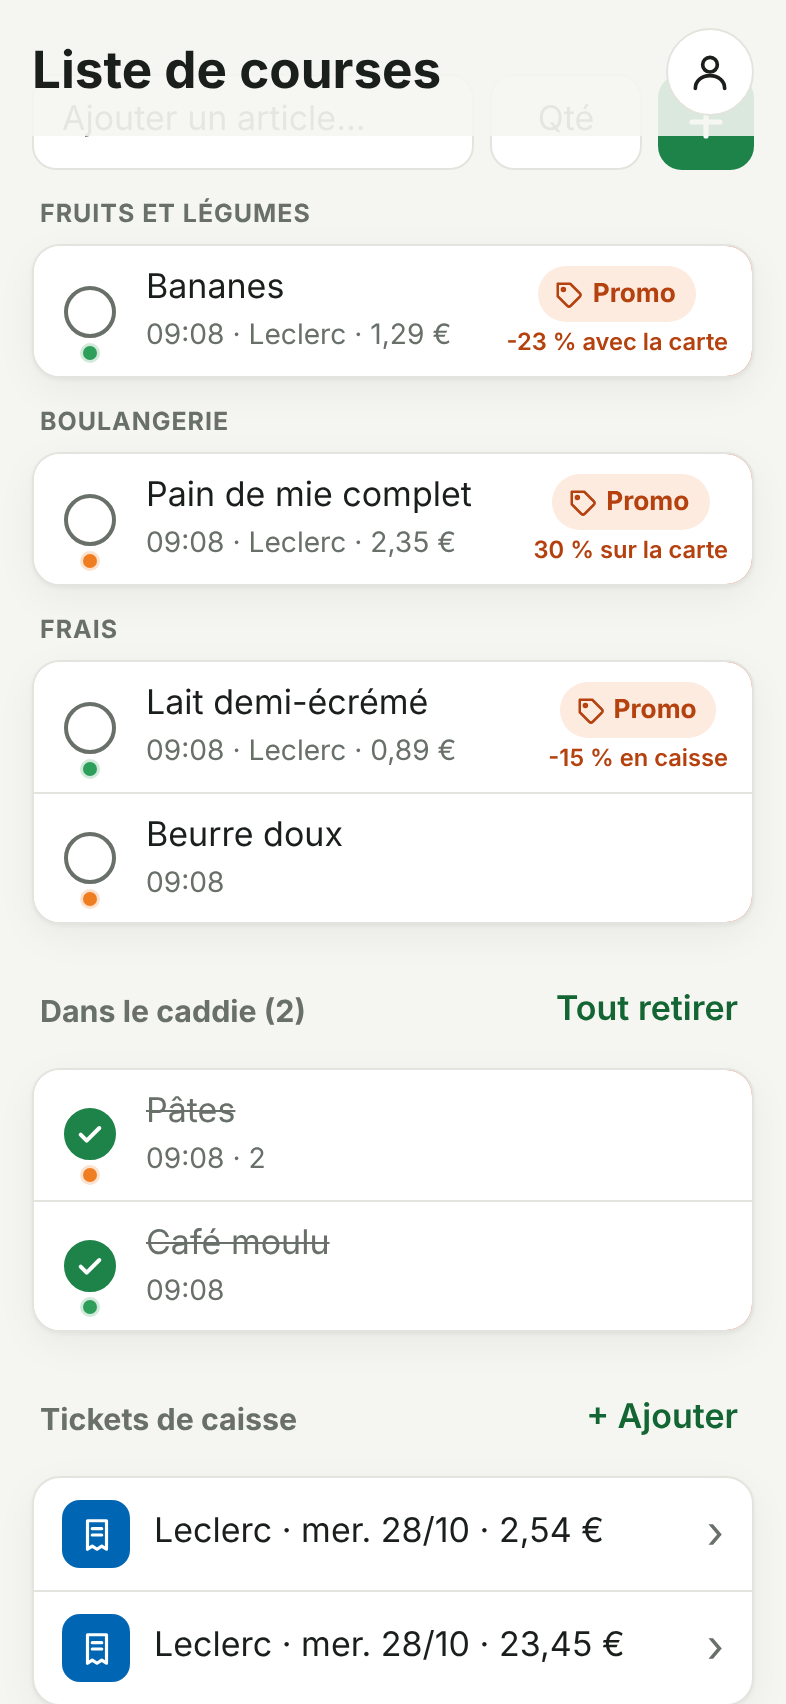
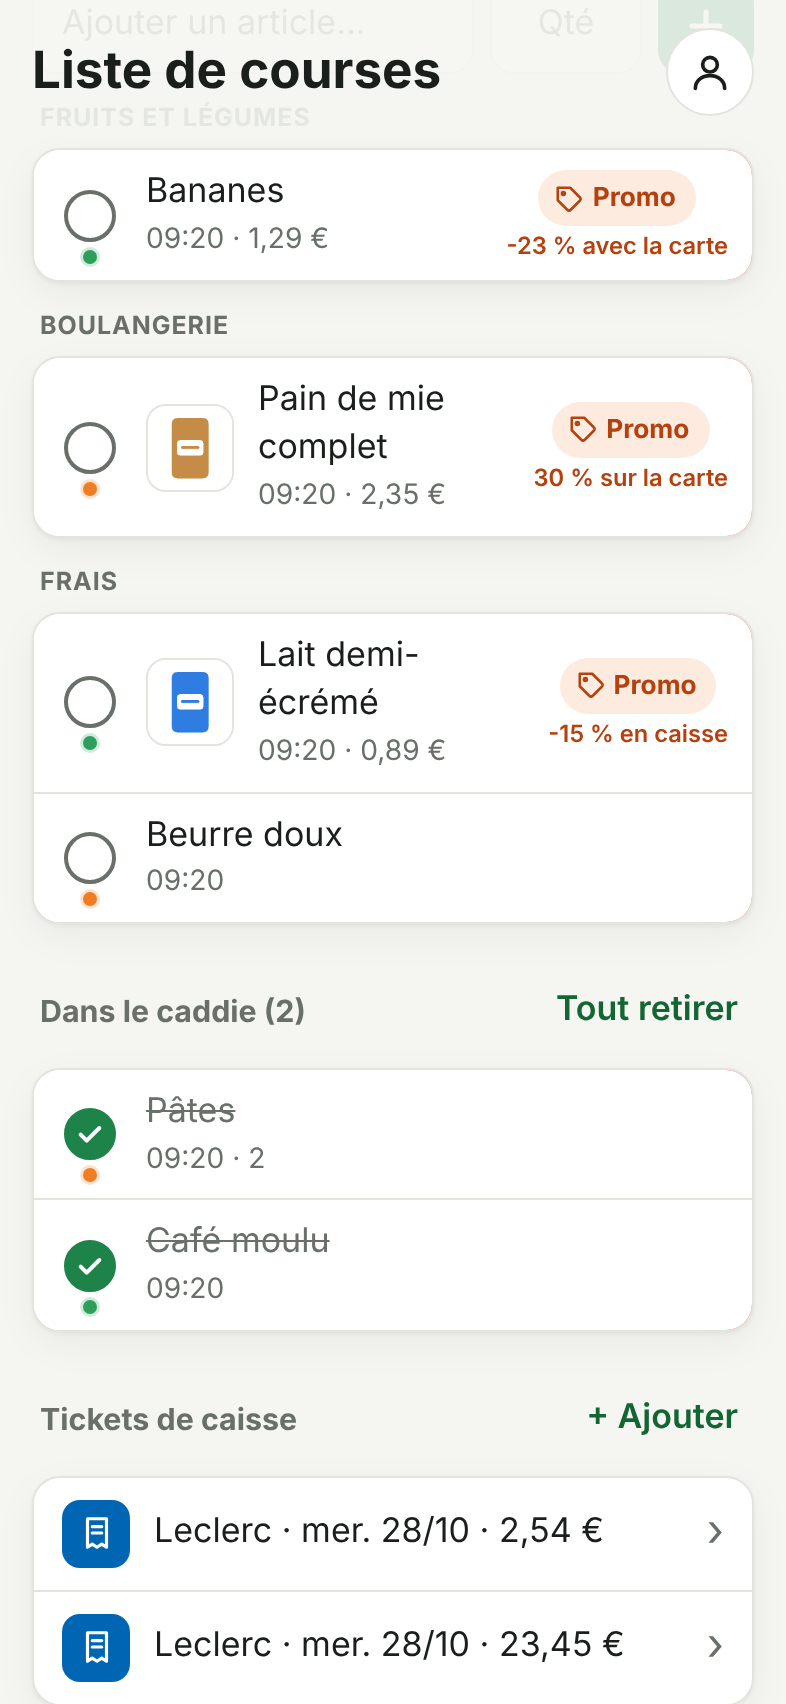
Appli 0.13 : la photo du produit dans la liste
Chaque article ajouté depuis une promo montre la photo de son produit en
petit, après le rond à cocher (rien sans photo sûre, ni dans le caddie) ;
la toucher montre la promo. La note affichée ne répète plus « Leclerc · »
(la note enregistrée ne change pas). Les images du robot (photos, logos)
passent par une seule fonction.

Claude-Session: https://claude.ai/code/session_01NExQydJf7Spos4MHk3nxW4

diff --git a/app/src/main.js b/app/src/main.js
@@ -37,7 +37,7 @@ import {
   formaterMoment,
   indexerPromos,
   joliNom,
-  noteCourte,
+  noteAffichee,
   periode,
   phraseSource,
   rechercherPromos,
@@ -305,7 +305,7 @@ function ligneArticle(article, promo = null) {
   nom.className = "nom";
   nom.textContent = article.nom;
   contenu.append(element("span", "cache", "Modifier "), nom);
-  const details = [auteur.quand, article.quantite, noteCourte(article.note)].filter(Boolean).join(" · ");
+  const details = [auteur.quand, article.quantite, noteAffichee(article.note)].filter(Boolean).join(" · ");
   if (details) {
     const sousTitre = document.createElement("span");
     sousTitre.className = "details";
@@ -318,7 +318,14 @@ function ligneArticle(article, promo = null) {
   // Devant : la ligne elle-même ; derrière : le bouton « Supprimer », qu'on découvre en glissant.
   const devant = document.createElement("div");
   devant.className = "article-devant";
-  devant.append(caseACocher, contenu);
+  devant.append(caseACocher);
+  // La photo du produit de la promo choisie, en petit (rien sans photo sûre) ; la toucher montre la promo.
+  if (adresseSure(promo?.offre?.photo)) {
+    const photo = imageDuRobot(promo.offre.photo, "photo-article", "", (image) => image.remove());
+    photo.addEventListener("click", () => ouvrirPromo(article, promo));
+    devant.append(photo);
+  }
+  devant.append(contenu);
   if (promo?.terminee) devant.append(element("span", "promo-terminee", "Promo terminée"));
   else if (promo) devant.append(boutonPromo(article, promo));
 
@@ -588,17 +595,29 @@ $("plus-de-resultats").addEventListener("click", () => {
 function marquePromo(offre) {
   if (!offre.marque) return null;
   const nom = () => element("span", "marque-promo", offre.marque);
-  if (!/^https:\/\//.test(offre.logo ?? "")) return nom();
-  const logo = document.createElement("img");
-  logo.className = "logo-marque";
-  logo.alt = offre.marque; // lu par VoiceOver : le nom de la marque n'est écrit nulle part ailleurs
-  logo.loading = "lazy";
-  logo.decoding = "async";
-  logo.crossOrigin = "anonymous"; // pour le garder sur le téléphone (hors connexion)
-  logo.referrerPolicy = "no-referrer";
-  logo.addEventListener("error", () => logo.replaceWith(nom()), { once: true });
-  logo.src = offre.logo;
-  return logo;
+  if (!adresseSure(offre.logo)) return nom();
+  // Le texte de remplacement est lu par VoiceOver : le nom de la marque n'est écrit nulle part ailleurs.
+  return imageDuRobot(offre.logo, "logo-marque", offre.marque, (logo) => logo.replaceWith(nom()));
+}
+
+const adresseSure = (adresse) => /^https:\/\//.test(adresse ?? "");
+
+/**
+ * Une image faite par le robot (photo d'un produit, logo d'une marque) : chargée quand elle devient
+ * visible et gardée sur le téléphone pour le mode hors ligne. `siIntrouvable(image)` la remplace si
+ * elle ne se charge pas : jamais d'image cassée.
+ */
+function imageDuRobot(adresse, classe, texte, siIntrouvable) {
+  const image = document.createElement("img");
+  image.className = classe;
+  image.alt = texte;
+  image.loading = "lazy";
+  image.decoding = "async";
+  image.crossOrigin = "anonymous"; // une réponse lisible, que le téléphone peut garder
+  image.referrerPolicy = "no-referrer";
+  image.addEventListener("error", () => siIntrouvable(image), { once: true });
+  image.src = adresse;
+  return image;
 }
 
 /**
@@ -612,17 +631,8 @@ function photoPromo(offre) {
       '<svg viewBox="0 0 24 24" aria-hidden="true"><path d="M5 8h14l-1.2 12H6.2z" /><path d="M9 8V6.5a3 3 0 0 1 6 0V8" /></svg>';
     return cadre;
   };
-  if (!/^https:\/\//.test(offre.photo ?? "")) return sansPhoto();
-  const image = document.createElement("img");
-  image.className = "photo-promo";
-  image.alt = "";
-  image.loading = "lazy";
-  image.decoding = "async";
-  image.crossOrigin = "anonymous"; // pour la garder sur le téléphone (hors connexion)
-  image.referrerPolicy = "no-referrer";
-  image.addEventListener("error", () => image.replaceWith(sansPhoto()), { once: true });
-  image.src = offre.photo;
-  return image;
+  if (!adresseSure(offre.photo)) return sansPhoto();
+  return imageDuRobot(offre.photo, "photo-promo", "", (image) => image.replaceWith(sansPhoto()));
 }
 
 function boutonAjouter(offre) {

diff --git a/app/e2e/promos.spec.js b/app/e2e/promos.spec.js
@@ -37,9 +37,18 @@ test("un article ajouté depuis une promo l'affiche à droite ; écrit à la mai
   await ajouter(page, "Laitue"); // écrite à la main : même en promo, rien à droite
   const uht = ligne(page, "Lait demi-écrémé UHT");
   await expect(uht.locator(".type-promo")).toHaveText(/^-50 % sur le 2e · dès le \d/);
-  await expect(uht.locator(".details")).toHaveText(/^\d\d:\d\d · Leclerc · 6,12 €$/);
+  await expect(uht.locator(".details")).toHaveText(/^\d\d:\d\d · 6,12 €$/);
   await expect(ligne(page, "Laitue")).toBeVisible();
   await expect(ligne(page, "Laitue").locator(".bouton-promos")).toHaveCount(0);
+  // Dans la liste aussi, la photo du produit, en petit ; rien pour un article écrit à la main.
+  const photoUht = uht.locator("img.photo-article");
+  await expect(photoUht).toHaveAttribute("src", "https://exemple.test/photos/lait-uht.jpg");
+  await expect.poll(() => photoUht.evaluate((image) => image.complete && image.naturalWidth)).toBe(256);
+  await expect(ligne(page, "Laitue").locator(".photo-article")).toHaveCount(0);
+  // La toucher montre la promo.
+  await photoUht.click();
+  await expect(page.getByRole("dialog", { name: "Promo pour « Lait demi-écrémé UHT »" })).toBeVisible();
+  await page.getByRole("button", { name: "Fermer" }).click();
 
   // Le détail de cette promo-là, et d'elle seule.
   await uht.getByRole("button", { name: /^Voir la promo de Lait demi-écrémé UHT/i }).click();
@@ -76,6 +85,7 @@ test("un article ajouté depuis une promo l'affiche à droite ; écrit à la mai
   await page.getByRole("checkbox", { name: "Lait demi-écrémé : à acheter" }).click();
   await expect(caddie(page)).toContainText("Lait demi-écrémé");
   await expect(caddie(page).locator(".bouton-promos")).toHaveCount(0);
+  await expect(caddie(page).locator(".photo-article")).toHaveCount(0);
 });
 
 test("le prix dit clairement où va la réduction : sur la carte E.Leclerc, ou en caisse avec la carte", async ({
@@ -183,7 +193,7 @@ test("articles des versions précédentes : promo retrouvée d'après la note, o
   await ecrireArticle(request, "ancien-beurre", { nom: "Beurre doux", note: "Leclerc · 1,99 €", promo: "beurre" });
   await seConnecter(page, COMPTES.un);
   await expect(ligne(page, "Lait demi-écrémé").locator(".type-promo")).toHaveText("-15 % en caisse");
-  await expect(ligne(page, "Lait demi-écrémé").locator(".details")).toHaveText(/ · Leclerc · 0,89 €$/);
+  await expect(ligne(page, "Lait demi-écrémé").locator(".details")).toHaveText(/^\d\d:\d\d · 0,89 €$/);
   await expect(ligne(page, "Beurre doux").locator(".promo-terminee")).toHaveText("Promo terminée");
   await expect(ligne(page, "Beurre doux").locator(".bouton-promos")).toHaveCount(0);
 });

diff --git a/app/e2e/recherche.spec.js b/app/e2e/recherche.spec.js
@@ -34,11 +34,11 @@ test("en écrivant un article, les promos s'affichent ; on en ajoute une, ou ce 
   await page.getByRole("button", { name: "Ajouter Lait demi-écrémé à la liste" }).click();
   await expect(page.getByRole("button", { name: "Lait demi-écrémé : déjà dans la liste" })).toBeDisabled();
 
-  // Effacer : la liste revient, avec l'article et une note courte : où et à quel prix.
+  // Effacer : la liste revient, avec l'article et une note courte : son prix.
   await page.getByRole("button", { name: "Effacer" }).click();
   await expect(page.locator("#suggestions")).toBeHidden();
   await expect(aAcheter(page).locator(".nom")).toHaveText(["Lait demi-écrémé"]);
-  await expect(aAcheter(page).locator(".details")).toHaveText(/^\d\d:\d\d · Leclerc · 0,89 €$/);
+  await expect(aAcheter(page).locator(".details")).toHaveText(/^\d\d:\d\d · 0,89 €$/);
 
   // Aucune promo : « OK » sur le clavier l'ajoute quand même.
   await champ(page).fill("xyz");

diff --git a/app/tests/promos.test.js b/app/tests/promos.test.js
@@ -14,6 +14,7 @@ import {
   indexerPromos,
   joliNom,
   motsCles,
+  noteAffichee,
   noteCourte,
   periode,
   periodeCourte,
@@ -418,6 +419,13 @@ describe("promoChoisie : la promo affichée à droite d'un article", () => {
     );
     expect(promoChoisie({ nom: "Beurre doux", promo: "beurre" }, index, AUJOURDHUI)).toEqual({ terminee: true });
   });
+});
+
+test("dans la liste, la note sans « Leclerc · » (il n'y a plus qu'un magasin)", () => {
+  expect(noteAffichee("Leclerc · 2,25 €")).toBe("2,25 €");
+  expect(noteAffichee("Promo Leclerc : 2,25 € · Jusqu'au samedi 7 novembre")).toBe("2,25 €");
+  expect(noteAffichee("sans lactose")).toBe("sans lactose");
+  expect(noteAffichee(undefined)).toBeUndefined();
 });
 
 test("les notes des anciennes versions sont raccourcies à l'affichage", () => {

diff --git a/app/src/promos.js b/app/src/promos.js
@@ -295,6 +295,12 @@ export function noteCourte(note) {
   return note.replace(/^(Leclerc · [^·]+?) · (?:jusqu'|dès le ).*$/, "$1");
 }
 
+/**
+ * La note d'un article, telle que la liste la montre : courte, et sans « Leclerc · » au début (il
+ * n'y a plus qu'un magasin) : « Leclerc · 2,25 € » → « 2,25 € ». La note enregistrée ne change pas.
+ */
+export const noteAffichee = (note) => noteCourte(note)?.replace(/^Leclerc · /, "");
+
 // ---------------------------------------------------------------------------------------------
 // Dates
 

diff --git a/app/src/style.css b/app/src/style.css
@@ -633,6 +633,21 @@ svg {
   stroke: var(--sur-accent);
 }
 
+/* Dans la liste, la photo du produit d'un article ajouté depuis une promo, en petit. */
+.photo-article {
+  flex: none;
+  align-self: center;
+  box-sizing: border-box;
+  width: 44px;
+  height: 44px;
+  margin-right: 12px;
+  border: 1px solid var(--bordure);
+  border-radius: 10px;
+  background: #ffffff;
+  object-fit: contain;
+  cursor: pointer;
+}
+
 .texte {
   flex: 1;
   min-width: 0;

diff --git a/docs/appli.md b/docs/appli.md
@@ -108,7 +108,9 @@ Geispolsheim. L'appli lit ce fichier :
 
 - en écrivant un article, les promos qui correspondent s'affichent (voir plus bas) ; **« + Ajouter »**
   sur l'une d'elles ajoute l'article **avec cette promo** ;
-- un article ajouté ainsi porte à droite une étiquette orange **« Promo »**, et dessous, en petit, le
+- un article ajouté ainsi montre, juste après le rond à cocher, la **photo du produit** en petit (la
+  toucher montre la promo ; rien sans photo sûre, ni dans le caddie) ;
+- il porte à droite une étiquette orange **« Promo »**, et dessous, en petit, le
   **type de promo**, sans avoir à l'ouvrir : « -60 % sur le 2e » (en prenant plusieurs), « -20 % en
   caisse », « 30 % sur la carte » (Ticket E.Leclerc), « -25 % avec la carte », ou le prix s'il n'y a pas de réduction particulière ; « dès le 29 oct. » s'ajoute pour une promo
   qui n'a pas encore commencé ; quand la promo n'est plus dans les catalogues, « Promo terminée » ;
@@ -175,7 +177,8 @@ le champ, à la place de la liste (la croix ✕ efface et fait revenir la liste)
   demi-écrémé » avant « Laitue ») ;
 - **« + »** ou **« OK »** sur le clavier ajoute ce qu'on a écrit, **qu'il y ait des promos ou non** ;
 - le bouton **« + Ajouter »** d'une promo ajoute ce produit-là, avec une **note** courte qui
-  rappelle le magasin et le prix (« Leclerc · 0,89 € ») ; le type de promo et ses dates s'affichent,
+  rappelle le prix (« 0,89 € » ; elle est enregistrée « Leclerc · 0,89 € », mais la liste n'écrit
+  plus le magasin) ; le type de promo et ses dates s'affichent,
   toujours à jour, sous l'étiquette de l'article ;
   s'il est déjà dans la liste, le bouton l'indique (« ✓ Dans la liste ») ;
 - les promos s'affichent par 30 ; « Voir plus de promos » montre les suivantes.

diff --git a/CHANGELOG.md b/CHANGELOG.md
@@ -26,9 +26,14 @@ Tant que le projet est en `0.x`, il est en construction : le format peut encore 
   endroit. Le robot en fait une petite image PNG (1 à 12 Ko) rangée dans `logos/` de la branche
   `photos` ; nouveaux champs facultatifs `logo_catalogue` et `logo` dans `promos.json` (format
   inchangé). Chaque catalogue est relu une fois (lecture n° 3).
+- **La photo du produit dans la liste**, en petit, juste après le rond à cocher, pour chaque article
+  ajouté depuis une promo (rien sans photo sûre, ni dans le caddie) ; la toucher montre la promo.
 
 ### Modifié
 
+- Dans la liste, la note d'un article ajouté depuis une promo ne répète plus le magasin
+  (« 0,89 € » au lieu de « Leclerc · 0,89 € » : il n'y en a plus qu'un) ; la note enregistrée ne
+  change pas.
 - L'étape du robot « Fabriquer les photos » devient « Fabriquer les photos et les logos » (les
   logos d'abord, puis les photos, au plus une heure en tout) ; dans la fenêtre d'avancée :
   « Photos et logos ».

diff --git a/README.md b/README.md
@@ -113,7 +113,7 @@ Une appli web pensée pour l'iPhone, publiée gratuitement par GitHub Pages :
   Coca-Cola, Fanta… ; « Couches » trouve Pampers… (environ 50 familles).
 - **Les promos en écrivant** : en écrivant un article, les promos qui correspondent s'affichent
   aussitôt ; « + » ajoute ce qu'on a écrit (même sans promo), ou on ajoute une promo d'un geste (avec
-  une note courte : « Leclerc · 0,89 € »).
+  une note courte : « 0,89 € ») ; dans la liste, il montre la photo du produit en petit.
 - **Promos à jour** : l'appli prévient si le robot n'est pas passé ou si les promos sont incomplètes ;
   **« Mettre à jour les promos »** (dans Mon compte) lance le robot sans attendre, montre où il en
   est étape par étape (« Photos : 312 sur 1 450 ») et recharge les promos dès qu'il a fini.
